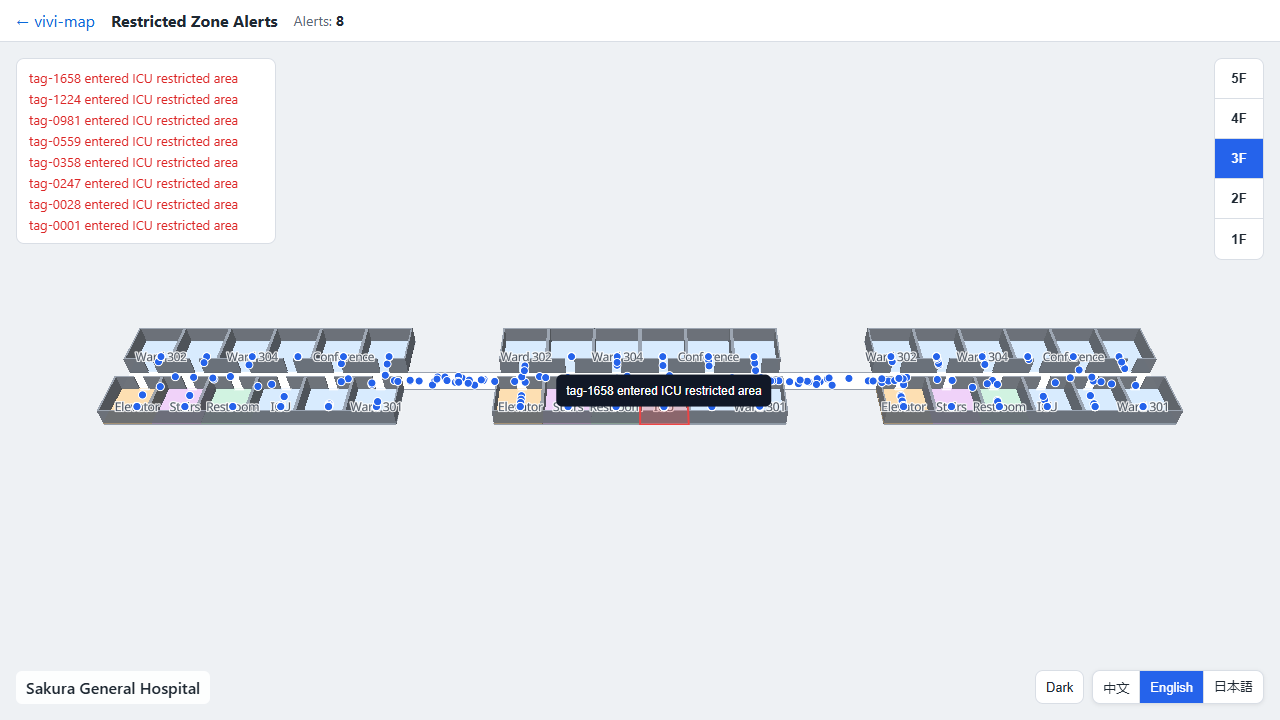
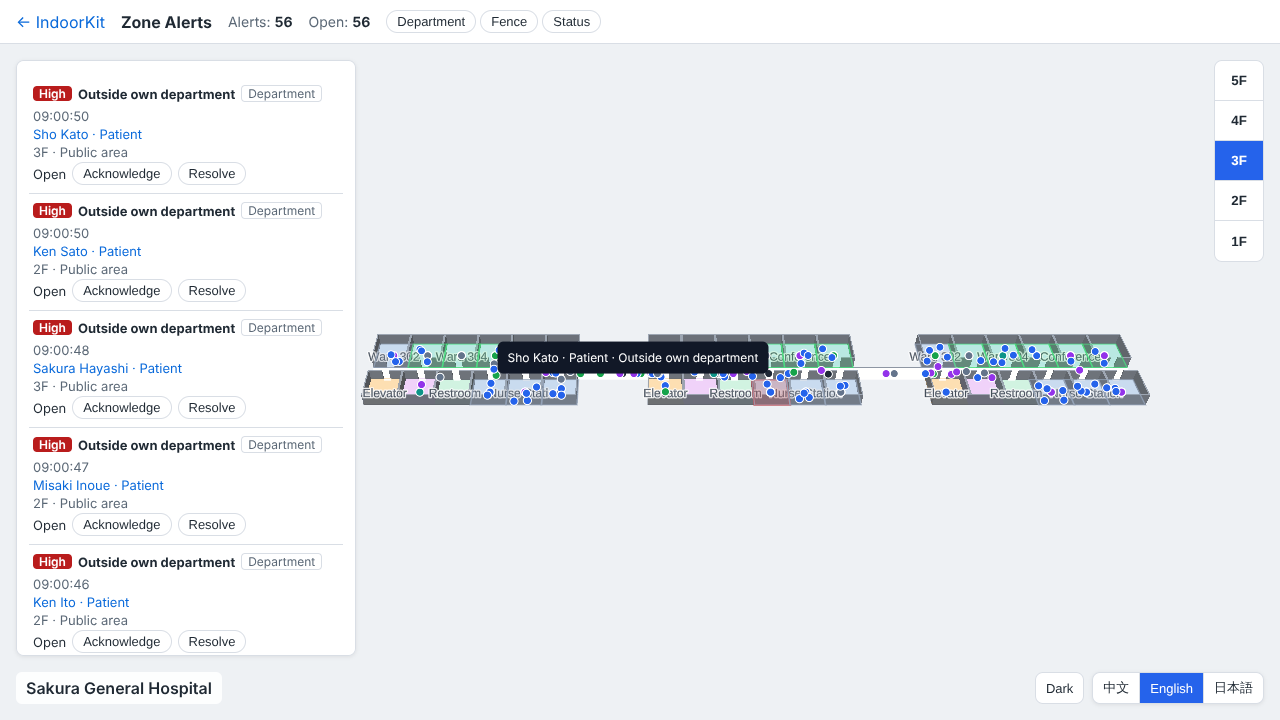
docs: README describes departments and the two product lines
The three READMEs now follow the gallery: Asset Efficiency (asset
overview) and People Tracking (tracking, trail replay, zone alerts,
occupancy), with departments and the two-layer alarm rule explained
first. Screenshots are retaken from the new pages, and the busiest-area
rows on the occupancy page no longer squeeze the report count.

Claude-Session: https://claude.ai/code/session_012E7NSozMvTBfaxDEvRjErQ

diff --git a/apps/playground/src/style.css b/apps/playground/src/style.css
@@ -443,6 +443,16 @@ a {
   gap: 6px;
 }
 
+.rows li[data-testid="busy-row"] .name {
+  flex-direction: column;
+  align-items: flex-start;
+  gap: 0;
+}
+
+.rows li[data-testid="busy-row"] .count {
+  white-space: nowrap;
+}
+
 .row {
   display: flex;
   flex-wrap: wrap;
@@ -475,6 +485,8 @@ a {
 .rows li[data-testid="busy-row"] {
   display: flex;
   justify-content: space-between;
+  align-items: baseline;
+  gap: 8px;
   padding: 6px 4px;
   border-bottom: 1px solid var(--border);
 }

diff --git a/README.md b/README.md
@@ -2,39 +2,70 @@
 
 **English** | [简体中文](README.zh-CN.md) | [日本語](README.ja.md)
 
-A demo of indoor positioning (RTLS) and asset management for a hospital, running entirely in the browser. It is built on an indoor map SDK written from scratch in TypeScript on top of MapLibre GL JS.
+A demo of indoor positioning (RTLS) for a hospital, running entirely in the browser. It is built on an indoor map SDK written from scratch in TypeScript on top of MapLibre GL JS.
 
 **Live demo: <https://vivi-shiki.github.io/IndoorKit/?lang=en>**
 
 All people, equipment and buildings are fictional. The venue is "Sakura General Hospital": 3 buildings with 5 floors each, connected by bridges on every floor.
 
-## What the demo shows
+## Departments
+
+Every room belongs to a department, such as Emergency, Internal Medicine, Surgery or Intensive Care, and a department can span several rooms, buildings and floors. Every device and every person also belongs to a department. Corridors, elevators and restrooms are public areas that belong to no department.
+
+Alarms check the department range first, and custom fences second:
+
+1. **Department range**: for example a patient outside their own department for more than 30 s, a visitor entering a department they are not visiting, or a device taken out of its department.
+2. **Custom fences**: a restricted ICU that only ICU staff may enter, anti-theft at the 1F exits for devices, and a visiting-time limit in a ward.
+3. **Reported status**: a device going offline, or a person pressing the SOS button.
+
+## Asset Efficiency
+
+### Asset Overview
+
+Which devices are in which room, what state they are in and how long they have worked today. Devices report their running status (running, idle, offline, maintenance), simulated here from a schedule for each device.
+
+- Devices are grouped by room. Each room shows one cluster point coloured by its most severe status.
+- The department list shows each department's device count and how many are offline or under maintenance. Select a department to highlight its rooms and list them.
+- Click a room to see its devices. Click a device to see its status, how long it has been in that status, its running time today, its battery and a timeline of today's status.
+- Search by device code or type, and filter by status or type.
+
+![Asset Overview](docs/images/assets.png)
+
+## People Tracking
 
 ### Real-time Tracking
 
-Live positions of staff, patients and equipment across the hospital. Tags walk along corridors, enter rooms through doors and change floors only by elevator or stairs.
+Where everyone is now. Tags walk along corridors, enter rooms through doors and change floors only by elevator or stairs.
 
-- Choose 500, 2,000 or 5,000 tags; positions are reported once per second and glide smoothly between reports.
-- Click a tag to replay its trail for the last 10 minutes.
-- A performance panel shows frame rate, frame interval and tags online.
+- People are coloured by role (doctor, nurse, patient, visitor, caregiver, security) and can be filtered by role.
+- People are listed by department, with how many are outside their own department.
+- Search a name or ID to jump to the person's floor and follow them. The person card shows their department, their location and whether they are inside their own department, with a link to their trail.
+- Choose 500, 2,000 or 5,000 tags; positions are reported once per second and glide smoothly between reports. A performance panel shows frame rate, frame interval and tags online.
 
 ![Real-time Tracking](docs/images/tracking.png)
 
-### Asset Distribution
+### Trail Replay
 
-Where equipment is concentrated on each floor. Nearby items (within 3 m) merge into one cluster point labelled with how many items it holds, and the header shows the cluster and asset counts for the floor.
+Where someone has been. Pick a person and a range of 15, 30 or 60 minutes, and play the trail back at 1×, 4× or 16×.
 
-![Asset Distribution](docs/images/assets.png)
+- The map follows the person from floor to floor while the trail plays.
+- Stops are listed with their time, room and duration, and marked when they are outside the person's own department. Click a stop to jump to that moment.
+- The alarms raised along the way are listed below the stops.
 
-### Restricted Zone Alerts
+![Trail Replay](docs/images/trail.png)
 
-The ICU on 3F is a restricted area. When a tag enters or leaves it, the alert appears in the list and as a popup at the tag's position.
+### Zone Alerts
 
-![Restricted Zone Alerts](docs/images/alerts.png)
+One feed for department, fence and status alarms, with who, where, which layer and how severe.
+
+- Acknowledge or resolve each alarm, and filter the feed by layer.
+- Click the person or device in an alarm to jump to its floor and position.
+
+![Zone Alerts](docs/images/alerts.png)
 
 ### Occupancy Heatmap
 
-Crowded areas on each floor over the last 1, 5 or 15 minutes, for planning staff and spotting congestion.
+Crowded areas on each floor over the last 1, 5 or 15 minutes, filtered by role, with the three busiest rooms on the floor.
 
 ![Occupancy Heatmap](docs/images/occupancy.png)
 
@@ -47,12 +78,13 @@ Crowded areas on each floor over the last 1, 5 or 15 minutes, for planning staff
 
 ## Technical highlights
 
-- **Indoor map SDK with a plugin system.** `definePlugin` declares a plugin and its dependencies; plugins load in dependency order and their APIs are fully typed (`map.plugins.cluster.clusters()`).
+- **Indoor map SDK with a plugin system.** `definePlugin` declares a plugin and its dependencies; plugins load in dependency order and their APIs are fully typed (`map.plugins.alarm.alarms()`).
 - **No leaks by design.** Every source, layer, listener, timer and Worker a plugin creates is registered with a `ResourceTracker` and released in reverse order by `destroy()`. A memory regression test switches through all pages repeatedly and checks the JS heap, Workers and registered resources.
-- **Open data format.** Maps use IMDF (OGC Community Standard), validated with zod, including references between features and unique ids. The fictional hospital is generated by a script, so the data is reproducible.
+- **Open data format.** Maps use IMDF (OGC Community Standard), validated with zod, including references between features and unique ids. Departments are an extra IMDF file that lists the rooms of each department; validation rejects unknown rooms and rooms claimed by two departments. The fictional hospital is generated by a script, so the data is reproducible.
 - **Styles generated from data.** Room colors and 2.5D heights come from the room category and a theme; walls and rooms are extruded with `fill-extrusion`, no 3D models needed. Language and theme switch at runtime without recreating the map.
-- **Real-time data off the main thread.** A deterministic, seeded simulator runs in a Web Worker and talks to the page through Comlink.
-- **Spatial algorithms.** Interpolated movement with trail history, radius clustering with a KDBush index, geofencing with a Flatbush index plus point-in-polygon checks, and a heatmap that aggregates samples into per-minute grid buckets so memory stays bounded.
+- **Real-time data off the main thread.** A deterministic, seeded simulator runs in a Web Worker and talks to the page through Comlink. The same ID is always the same person or device, with the same role, department and status schedule.
+- **Two-layer alarm engine.** Each report is checked against department rules first (outside the own department with a grace period, entering another department) and custom fences second (forbidden, dwell too long, left the area), with exemptions by department. An alarm fires once and resets when the person or device returns.
+- **Spatial algorithms.** A Flatbush index plus point-in-polygon checks finds the room and department of every report; interpolated movement with trail history and stop detection; per-room clustering by status; a heatmap that aggregates samples into per-minute grid buckets so memory stays bounded.
 - **Tested end to end.** Unit tests run the SDK against an in-memory fake map without WebGL. Playwright tests drive the real pages through test hooks, check contrast in both themes, and measure heap growth through the Chrome DevTools Protocol. GitHub Actions runs everything and deploys to GitHub Pages.
 
 ## Tech stack
@@ -64,11 +96,11 @@ TypeScript (strict) · MapLibre GL JS · IMDF · zod · Web Worker + Comlink · 
 | Path | Contents |
 | --- | --- |
 | `packages/core` | Map creation, plugin system, resource tracking, events, style and theme generation |
-| `packages/imdf` | IMDF loading, validation and conversion |
-| `packages/plugins` | Floor, position stream, cluster, geofence, heatmap, polygon, line, popup and marker plugins |
-| `tools/venue-gen` | Generator for the fictional hospital |
-| `tools/rtls-simulator` | Tag movement simulator and its Worker data provider |
-| `apps/playground` | The four pages of the live demo |
+| `packages/imdf` | IMDF loading, validation and conversion, including departments |
+| `packages/plugins` | Floor, department, position stream, room cluster, trail, alarm, cluster, geofence, heatmap, polygon, line, popup and marker plugins |
+| `tools/venue-gen` | Generator for the fictional hospital and its departments |
+| `tools/rtls-simulator` | Roster of people and devices, movement simulator and its Worker data provider |
+| `apps/playground` | The five pages of the live demo |
 
 ## Run locally
 
